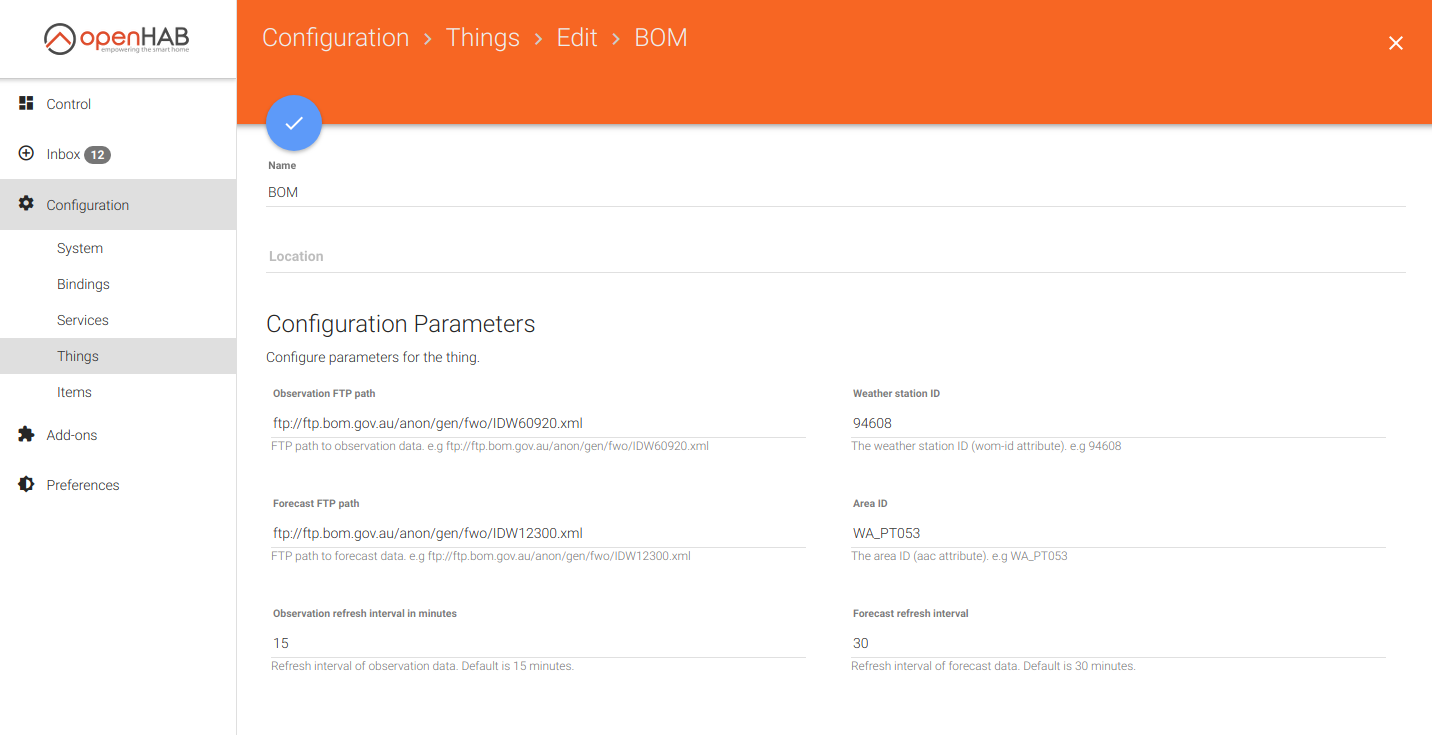
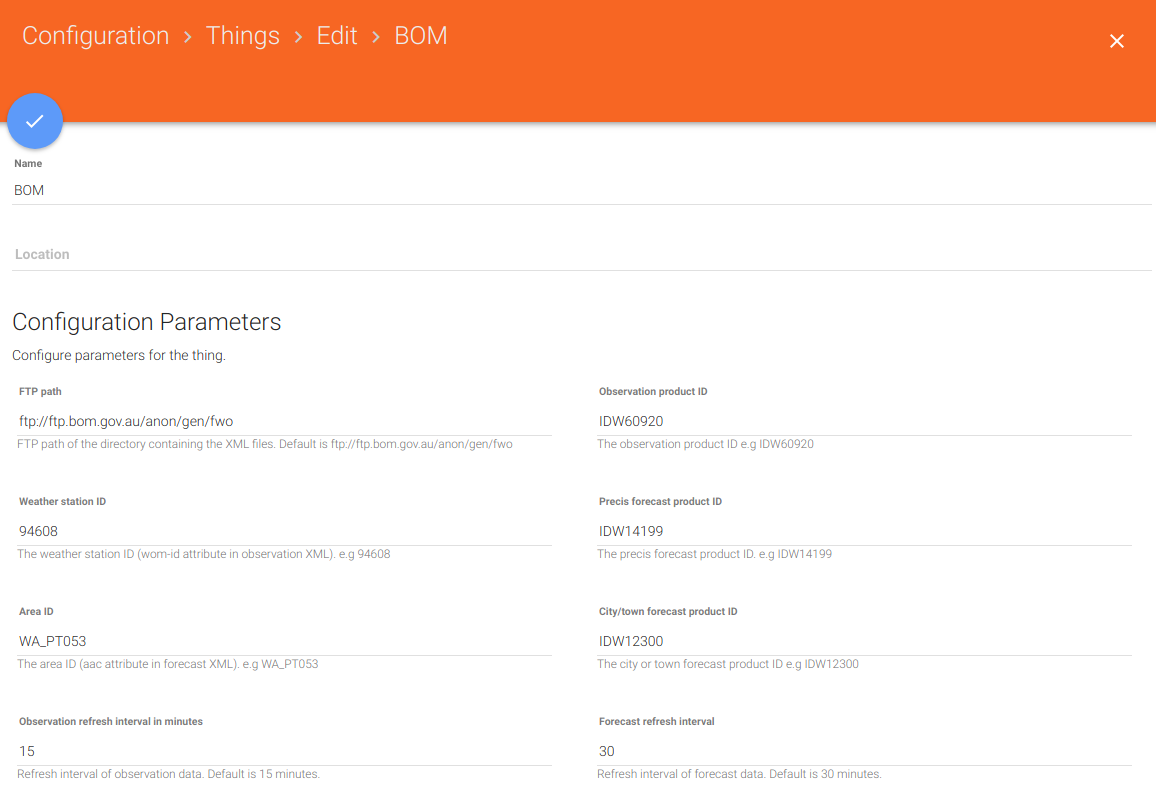
Add support for city/town forecast XML

diff --git a/src/main/java/org/openhab/binding/bom/internal/BomHandler.java b/src/main/java/org/openhab/binding/bom/internal/BomHandler.java
@@ -102,21 +102,24 @@ public class BomHandler extends BaseThingHandler {
     }
 
     private void refreshObservation() {
-        if (config.observationFtpPath == null || config.weatherStationId == null) {
-            logger.warn("Observation FTP path or weather station ID is required");
-            updateStatus(ThingStatus.UNINITIALIZED);
+        if (config.ftpPath == null || config.ftpPath.trim().length() == 0 || config.observationProductId == null
+                || config.weatherStationId == null) {
+            logger.error("FTP path, observation product ID and weather station ID are required");
+            updateStatus(ThingStatus.OFFLINE);
             return;
         }
 
-        logger.debug("Processing observation data from FTP path: {}, weather station ID: {}", config.observationFtpPath,
+        String observationFtpPath = config.ftpPath + "/" + config.observationProductId.toUpperCase() + ".xml";
+
+        logger.debug("Processing observation data from FTP path: {}, weather station ID: {}", observationFtpPath,
                 config.weatherStationId);
 
         InputStream inputStream = null;
 
         try {
-            logger.debug("Retrieving observation data from " + config.observationFtpPath);
+            logger.debug("Retrieving observation data from " + observationFtpPath);
 
-            URLConnection urlConnection = new URL(config.observationFtpPath).openConnection();
+            URLConnection urlConnection = new URL(observationFtpPath).openConnection();
             inputStream = urlConnection.getInputStream();
 
             DocumentBuilderFactory builderFactory = DocumentBuilderFactory.newInstance();
@@ -200,18 +203,26 @@ public class BomHandler extends BaseThingHandler {
     }
 
     private void refreshForecast() {
-        if (config.forecastFtpPath == null || config.areaId == null) {
-            logger.warn("Forecast FTP path or area ID is required");
-            updateStatus(ThingStatus.UNINITIALIZED);
+        refreshPrecisForecast();
+        refreshCityOrTownForecast();
+    }
+
+    private void refreshPrecisForecast() {
+        if (config.ftpPath == null || config.ftpPath.trim().length() == 0 || config.precisForecastProductId == null
+                || config.areaId == null) {
+            logger.error("FTP path, precis forecast product ID and area ID are required");
+            updateStatus(ThingStatus.OFFLINE);
             return;
         }
 
-        logger.info("Processing forecast data from FTP path: {}, area ID: {}", config.forecastFtpPath, config.areaId);
+        String forecastFtpPath = config.ftpPath + "/" + config.precisForecastProductId.toUpperCase() + ".xml";
+
+        logger.info("Processing precis forecast from FTP path: {}, area ID: {}", forecastFtpPath, config.areaId);
 
         InputStream inputStream = null;
 
         try {
-            URLConnection urlConnection = new URL(config.forecastFtpPath).openConnection();
+            URLConnection urlConnection = new URL(forecastFtpPath).openConnection();
             inputStream = urlConnection.getInputStream();
 
             DocumentBuilderFactory builderFactory = DocumentBuilderFactory.newInstance();
@@ -220,10 +231,6 @@ public class BomHandler extends BaseThingHandler {
             XPath xPath = XPathFactory.newInstance().newXPath();
 
             String areaXPath = "/product/forecast/area[@aac='" + config.areaId + "']";
-            Node areaNode = (Node) xPath.compile(areaXPath).evaluate(xmlDocument, XPathConstants.NODE);
-
-            String parentAreaCode = areaNode.getAttributes().getNamedItem("parent-aac").getNodeValue();
-            String parentAreaXPath = "/product/forecast/area[@aac='" + parentAreaCode + "']";
 
             NodeList nodes = (NodeList) xPath.compile(areaXPath + "/forecast-period").evaluate(xmlDocument,
                     XPathConstants.NODESET);
@@ -245,9 +252,6 @@ public class BomHandler extends BaseThingHandler {
                     Double maxTemperature = null;
                     String precis = "";
                     String precipitation = "";
-                    String uvAlert = "N/A";
-                    String forecast = getString(xmlDocument, xPath,
-                            parentAreaXPath + "/forecast-period[@index='" + idx + "']/text[@type='forecast']");
 
                     for (int j = 0; j < node.getChildNodes().getLength(); j++) {
                         Node childNode = node.getChildNodes().item(j);
@@ -273,22 +277,103 @@ public class BomHandler extends BaseThingHandler {
                             case "probability_of_precipitation":
                                 precipitation = childNode.getTextContent();
                                 break;
+                        }
+                    }
+
+                    updateForecastState(BomBindingConstants.CHANNEL_GROUP_DAY_PREFIX + (idx + 1), zonedDatetime,
+                            iconCode, precis, minTemperature, maxTemperature, precipitation);
+
+                    idx++;
+                }
+
+                logger.info("Successfully processed precis forecast data.");
+            }
+        } catch (IOException | ParserConfigurationException | SAXException | XPathExpressionException ex) {
+            logger.error("Unable to process precis forecast data from " + forecastFtpPath, ex);
+            updateStatus(ThingStatus.OFFLINE);
+        } finally {
+            if (inputStream != null) {
+                try {
+                    inputStream.close();
+                } catch (IOException e) {
+                    logger.warn("Unable to close input streram", e);
+                }
+            }
+        }
+    }
+
+    private void refreshCityOrTownForecast() {
+        if (config.ftpPath == null || config.ftpPath.trim().length() == 0 || config.cityTownForecastProductId == null
+                || config.areaId == null) {
+            logger.error("FTP path, city/town forecast product ID and area ID are required");
+            updateStatus(ThingStatus.OFFLINE);
+            return;
+        }
+
+        String forecastFtpPath = config.ftpPath + "/" + config.cityTownForecastProductId.toUpperCase() + ".xml";
+
+        logger.info("Processing city/town forecast from FTP path: {}, area ID: {}", forecastFtpPath, config.areaId);
+
+        InputStream inputStream = null;
+
+        try {
+            URLConnection urlConnection = new URL(forecastFtpPath).openConnection();
+            inputStream = urlConnection.getInputStream();
+
+            DocumentBuilderFactory builderFactory = DocumentBuilderFactory.newInstance();
+            DocumentBuilder builder = builderFactory.newDocumentBuilder();
+            Document xmlDocument = builder.parse(inputStream);
+            XPath xPath = XPathFactory.newInstance().newXPath();
+
+            String areaXPath = "/product/forecast/area[@aac='" + config.areaId + "']";
+            Node areaNode = (Node) xPath.compile(areaXPath).evaluate(xmlDocument, XPathConstants.NODE);
+
+            String parentAreaCode = areaNode.getAttributes().getNamedItem("parent-aac").getNodeValue();
+            String parentAreaXPath = "/product/forecast/area[@aac='" + parentAreaCode + "']";
+
+            NodeList nodes = (NodeList) xPath.compile(parentAreaXPath + "/forecast-period").evaluate(xmlDocument,
+                    XPathConstants.NODESET);
+
+            if (nodes != null && nodes.getLength() > 0) {
+                int idx = 0;
+                for (int i = 0; i < nodes.getLength() && idx < BomBindingConstants.NUMBER_OF_FORECASTS; i++) {
+                    Node node = nodes.item(i);
+
+                    if (node.getNodeType() != Node.ELEMENT_NODE) {
+                        continue;
+                    }
+
+                    String forecast = "N/A";
+                    String uvAlert = "N/A";
+
+                    for (int j = 0; j < node.getChildNodes().getLength(); j++) {
+                        Node childNode = node.getChildNodes().item(j);
+
+                        if (childNode.getNodeType() != Node.ELEMENT_NODE) {
+                            continue;
+                        }
+
+                        String type = childNode.getAttributes().getNamedItem("type").getNodeValue();
+
+                        switch (type) {
+                            case "forecast":
+                                forecast = childNode.getTextContent();
+                                break;
                             case "uv_alert":
                                 uvAlert = childNode.getTextContent();
                                 break;
                         }
                     }
 
-                    updateForecastState(BomBindingConstants.CHANNEL_GROUP_DAY_PREFIX + (idx + 1), zonedDatetime,
-                            iconCode, precis, forecast, minTemperature, maxTemperature, precipitation, uvAlert);
+                    updateForecastState(BomBindingConstants.CHANNEL_GROUP_DAY_PREFIX + (idx + 1), forecast, uvAlert);
 
                     idx++;
                 }
 
-                logger.info("Completed processing forecast data.");
+                logger.info("Successfully processed city/down forecast data.");
             }
         } catch (IOException | ParserConfigurationException | SAXException | XPathExpressionException ex) {
-            logger.error("Unable to process forecast data", ex);
+            logger.error("Unable to process precis forecast data from " + forecastFtpPath, ex);
             updateStatus(ThingStatus.OFFLINE);
         } finally {
             if (inputStream != null) {
@@ -302,7 +387,7 @@ public class BomHandler extends BaseThingHandler {
     }
 
     private void updateForecastState(String channelGroupId, ZonedDateTime zonedDateTime, String iconCode, String precis,
-            String forecast, Double minTemperature, Double maxTemperature, String precipitation, String uvAlert) {
+            Double minTemperature, Double maxTemperature, String precipitation) {
 
         getThing().getChannelsOfGroup(channelGroupId).stream().forEach(channel -> {
             switch (channel.getUID().getIdWithoutGroup()) {
@@ -314,6 +399,7 @@ public class BomHandler extends BaseThingHandler {
                             updateState(channel.getUID(), new StringType(WEATHER_ICON_MAP[iconIdx]));
                         }
                     }
+
                     break;
                 case BomBindingConstants.CHANNEL_DATE_TIME:
                     updateChannelState(channel.getUID(), zonedDateTime);
@@ -330,6 +416,13 @@ public class BomHandler extends BaseThingHandler {
                 case BomBindingConstants.CHANNEL_PRECIPITATION:
                     updateChannelState(channel.getUID(), precipitation);
                     break;
+            }
+        });
+    }
+
+    private void updateForecastState(String channelGroupId, String forecast, String uvAlert) {
+        getThing().getChannelsOfGroup(channelGroupId).stream().forEach(channel -> {
+            switch (channel.getUID().getIdWithoutGroup()) {
                 case BomBindingConstants.CHANNEL_FORECAST:
                     updateChannelState(channel.getUID(), forecast);
                     break;

diff --git a/src/main/java/org/openhab/binding/bom/internal/BomConfiguration.java b/src/main/java/org/openhab/binding/bom/internal/BomConfiguration.java
@@ -14,15 +14,19 @@ package org.openhab.binding.bom.internal;
  * @author Thomas Tan - Initial contribution
  */
 public class BomConfiguration {
-    public String observationFtpPath;
+    public String ftpPath;
+
+    public String observationProductId;
 
     public String weatherStationId;
 
-    public Integer observationRefreshInterval;
-
-    public String forecastFtpPath;
+    public String precisForecastProductId;
 
     public String areaId;
+
+    public String cityTownForecastProductId;
+
+    public Integer observationRefreshInterval;
 
     public Integer forecastRefreshInterval;
 }
